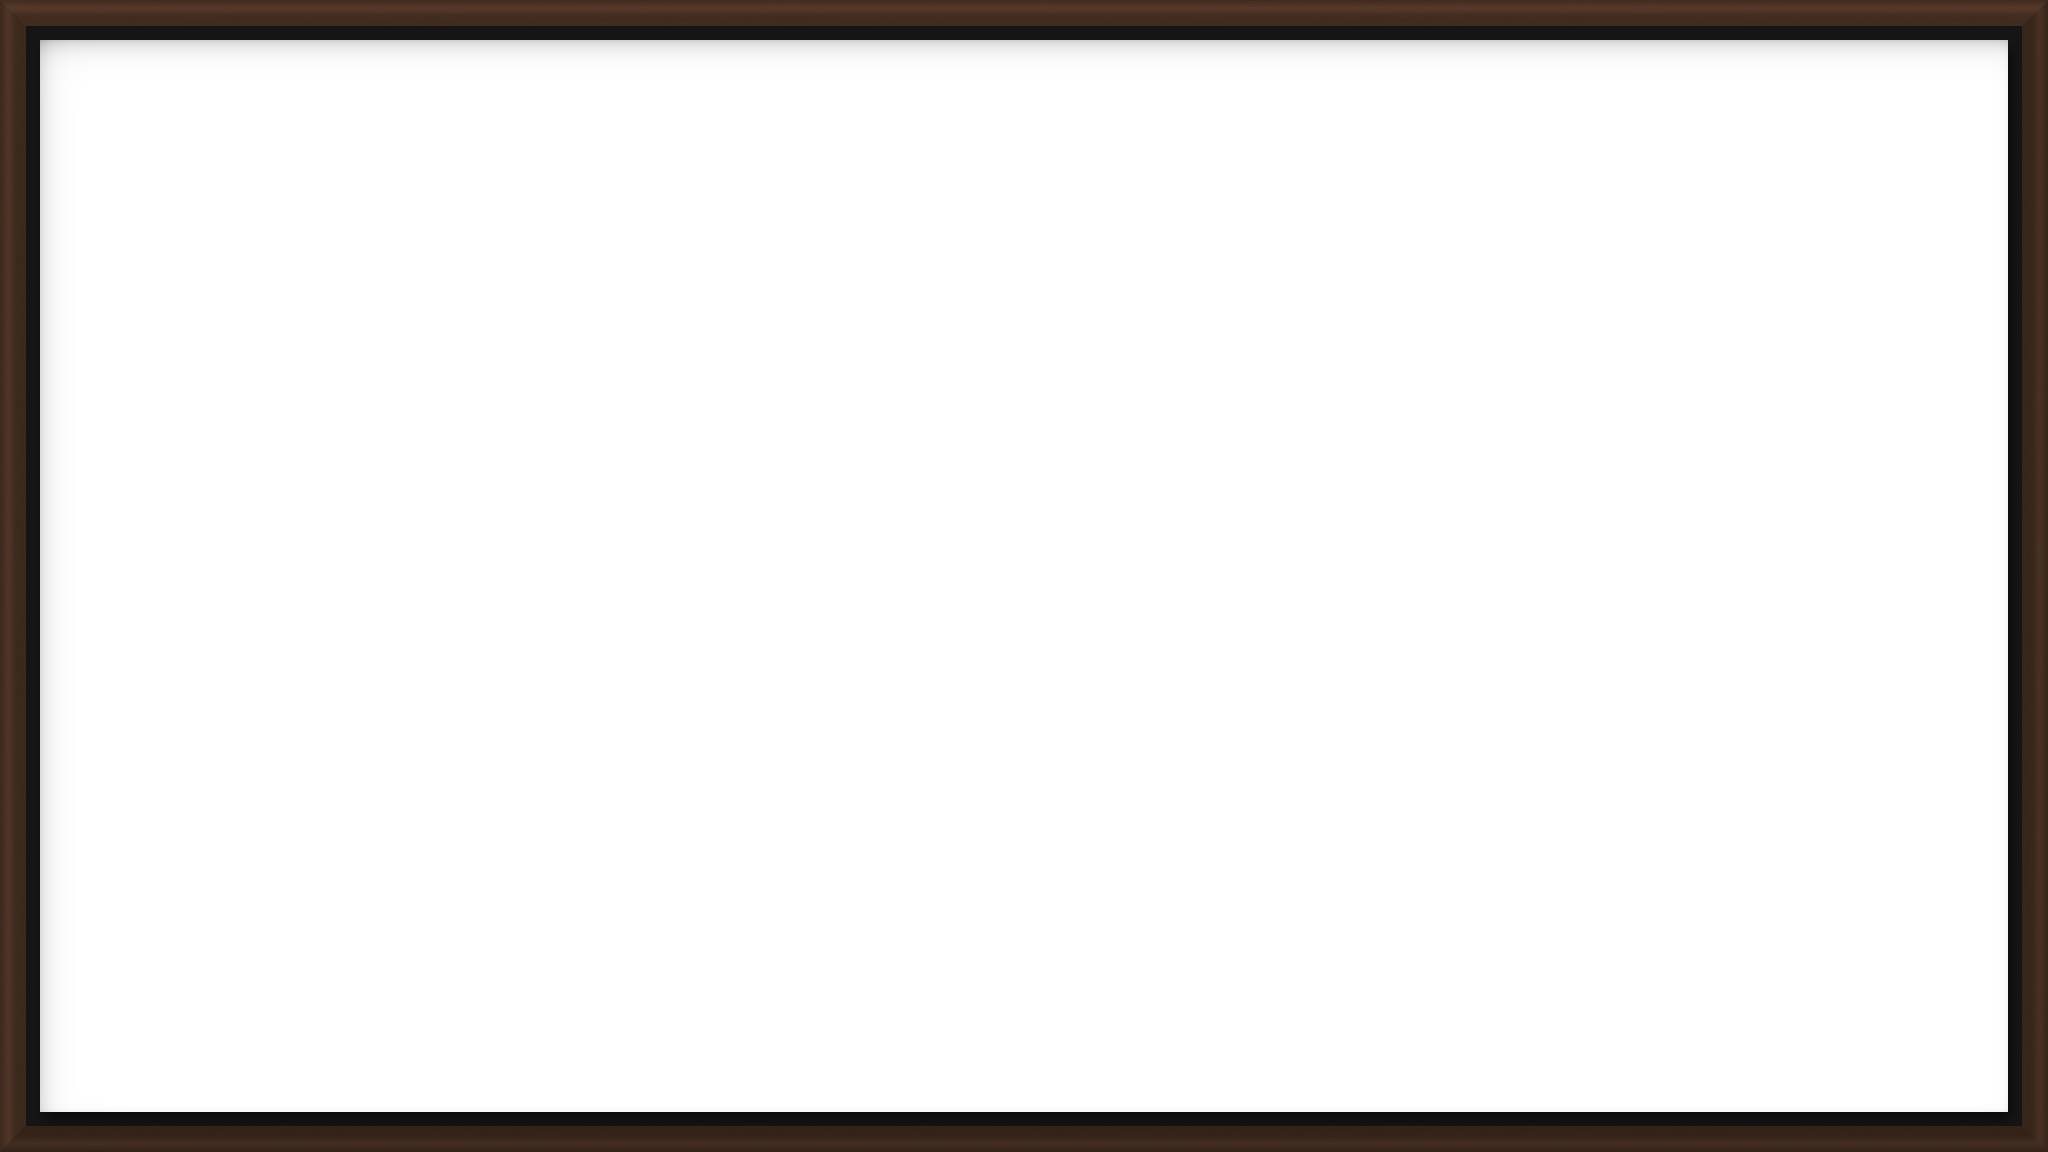
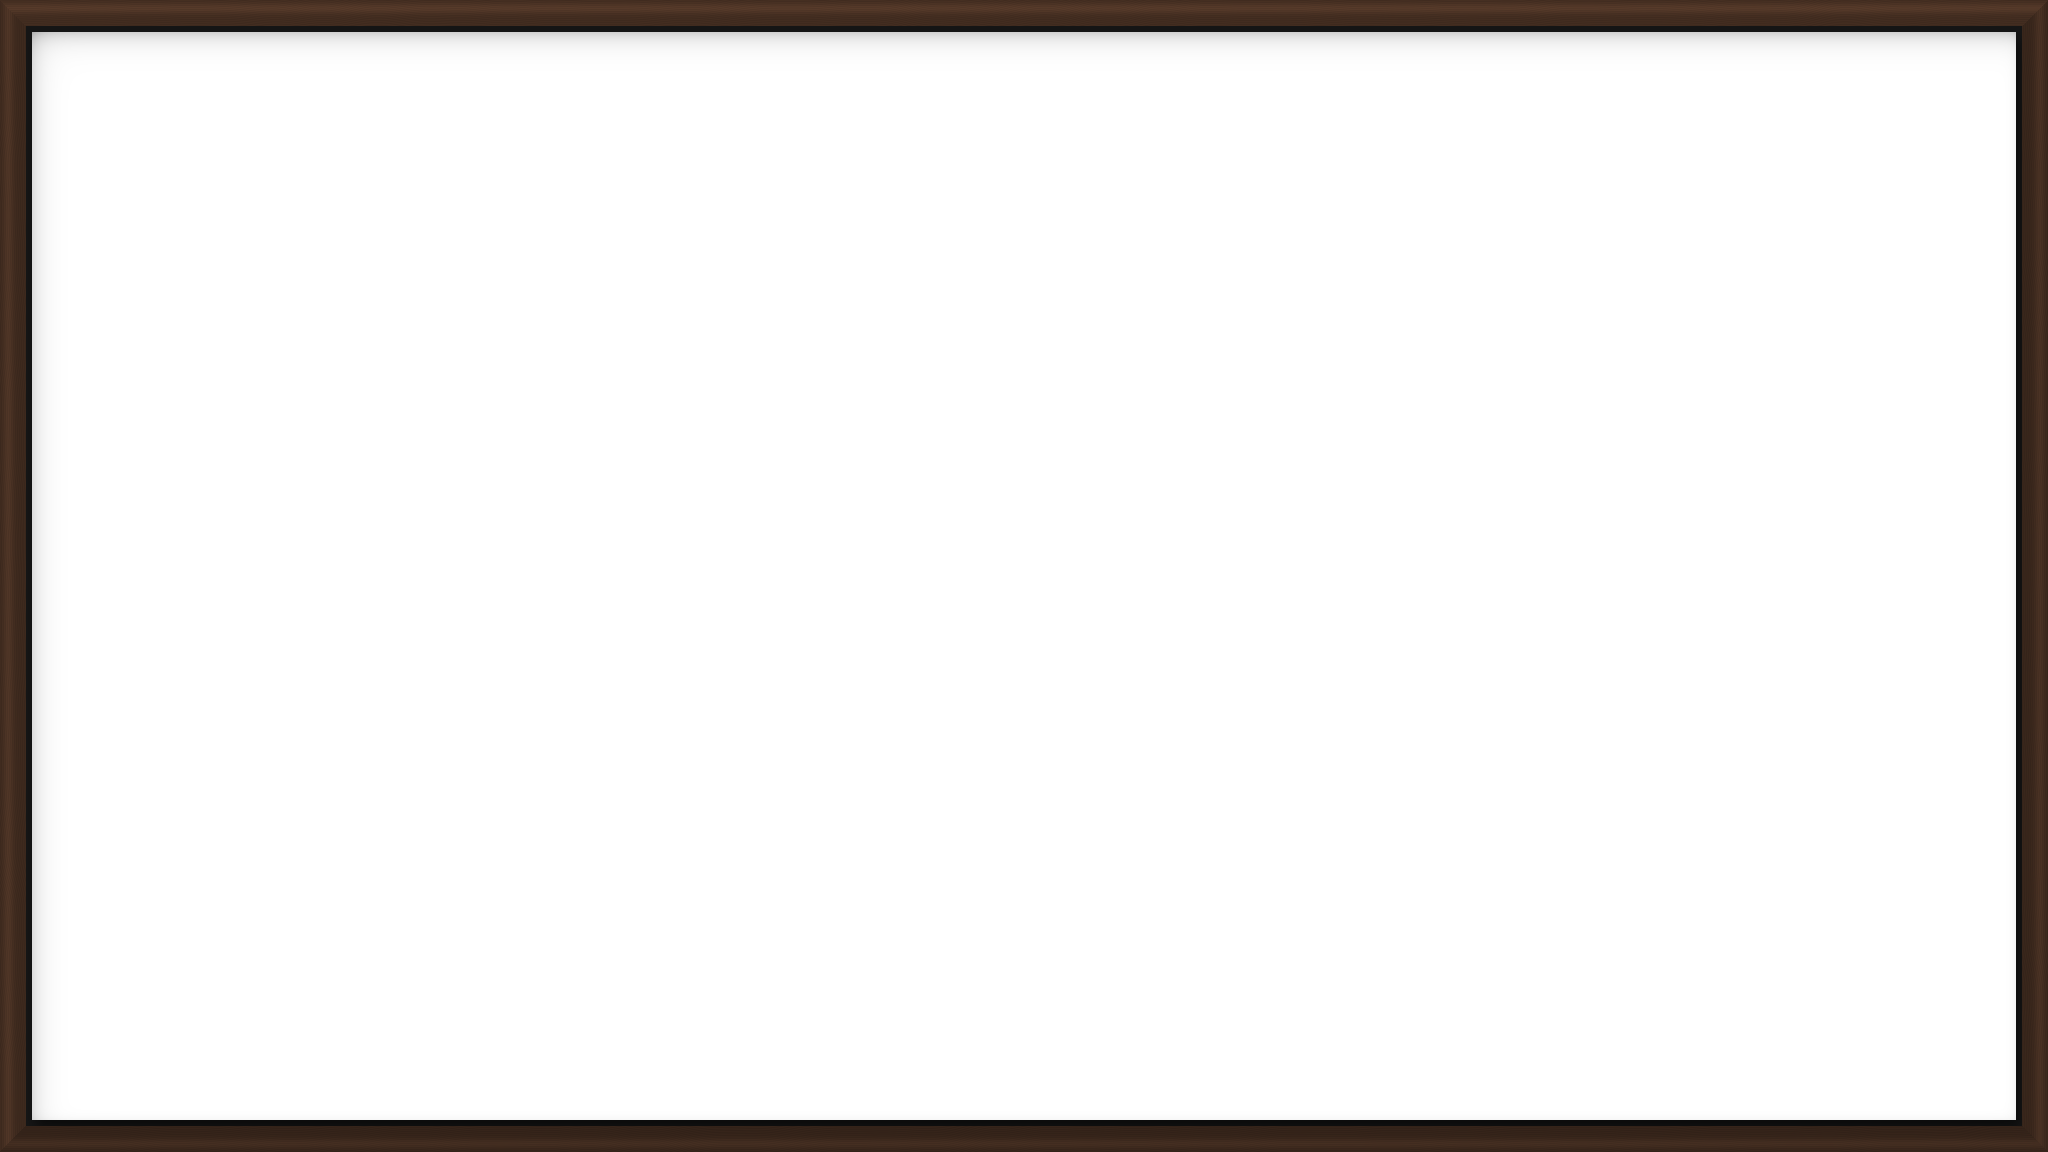
Thinner gap on Floating Walnut

Changed region(s): [[0.0, 0.0, 1.0, 1.0]]

diff --git a/scripts/make_frames.py b/scripts/make_frames.py
@@ -192,7 +192,7 @@ FRAMES = [
          win=edge_win(60, 44), mat=44, mould=60, mat_color=(238, 232, 218),
          profile=gold_profile, texture=None),
     dict(id="floating-walnut", name="Floating Walnut", wall=(236, 233, 227),
-         win=edge_win(26, 14), mat=0, gap=14, mould=26, mat_color=None,
+         win=edge_win(26, 6), mat=0, gap=6, mould=26, mat_color=None,
          profile=walnut_profile, texture=walnut_texture),
 ]
 
